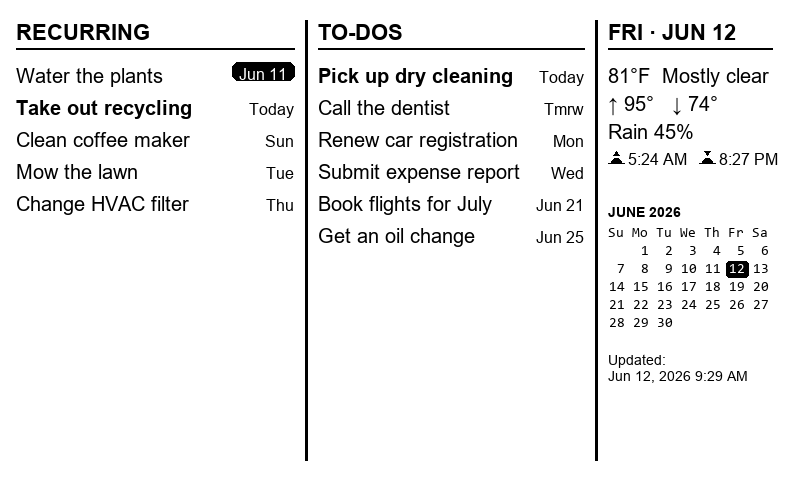
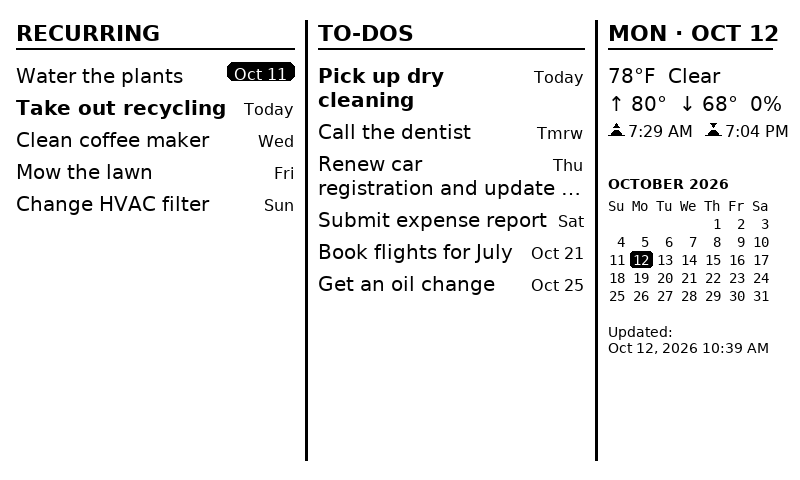
Refresh README images for v7 layout; mock data demos to-do wrapping

diff --git a/scripts/dashboard.py b/scripts/dashboard.py
@@ -524,7 +524,8 @@ def filter_due_window(rows: List[Row], days: int) -> List[Row]:
 
 def get_mock_rows() -> Tuple[List[Row], List[Row]]:
     """Generic demo data (also used for the README screenshot). Short titles,
-    one of every visual state: overdue pill, Today, Tmrw, weekday, absolute date."""
+    one of every visual state: overdue pill, Today, Tmrw, weekday, absolute date,
+    and a to-do long enough to wrap."""
     t = date.today()
 
     def day(offset: int) -> date:
@@ -540,7 +541,7 @@ def get_mock_rows() -> Tuple[List[Row], List[Row]]:
     todos = [
         Row("Pick up dry cleaning", day(0), overdue=False),
         Row("Call the dentist", day(1), overdue=False),
-        Row("Renew car registration", day(3), overdue=False),
+        Row("Renew car registration and update the insurance card", day(3), overdue=False),
         Row("Submit expense report", day(5), overdue=False),
         Row("Book flights for July", day(9), overdue=False),
         Row("Get an oil change", day(13), overdue=False),
